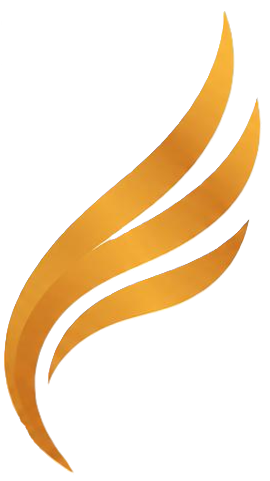
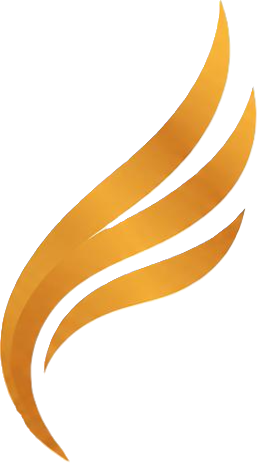
Suppression du liseré/trait blanc parasite en haut à gauche des plumes + repositionnement (gauche et bas)

diff --git a/index.html b/index.html
@@ -66,7 +66,7 @@ header{position:sticky; top:0; z-index:50; background:rgba(248,245,239,.92); bac
 /* Hero */
 .hero{position:relative; background:var(--ink); color:var(--paper); overflow:hidden; padding:110px 0 90px;}
 .hero-glow{position:absolute; inset:0; background:radial-gradient(600px 500px at 12% 100%, rgba(242,193,90,.22), transparent 70%);}
-.feathers{position:absolute; right:2%; top:-4%; width:min(420px,42vw); opacity:.95; pointer-events:none;}
+.feathers{position:absolute; right:10%; top:4%; width:min(420px,42vw); opacity:.95; pointer-events:none;}
 .feathers img{width:100%; height:auto; display:block;}
 .hero-grid{position:relative; display:grid; grid-template-columns:1.1fr .9fr; gap:40px; align-items:center;}
 .hero h1{font-size:clamp(2.4rem, 5vw, 4rem); max-width:14ch;}
